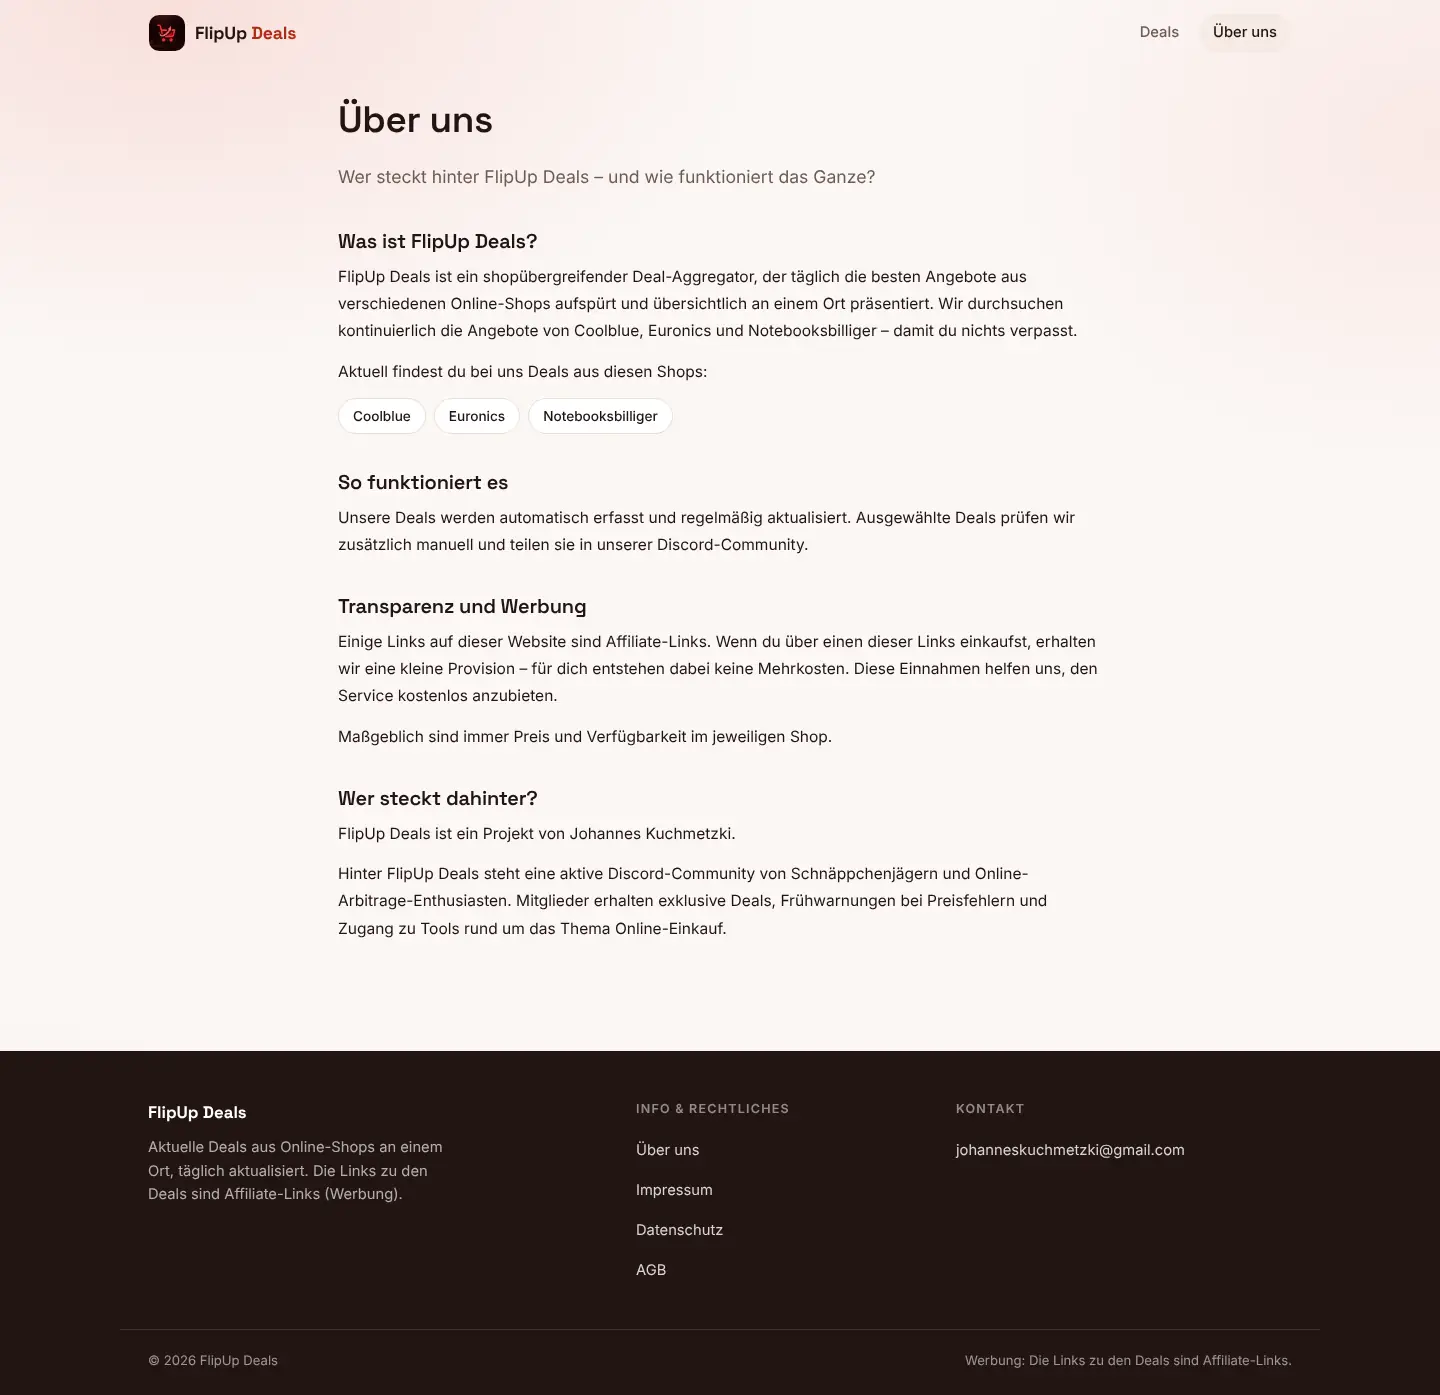
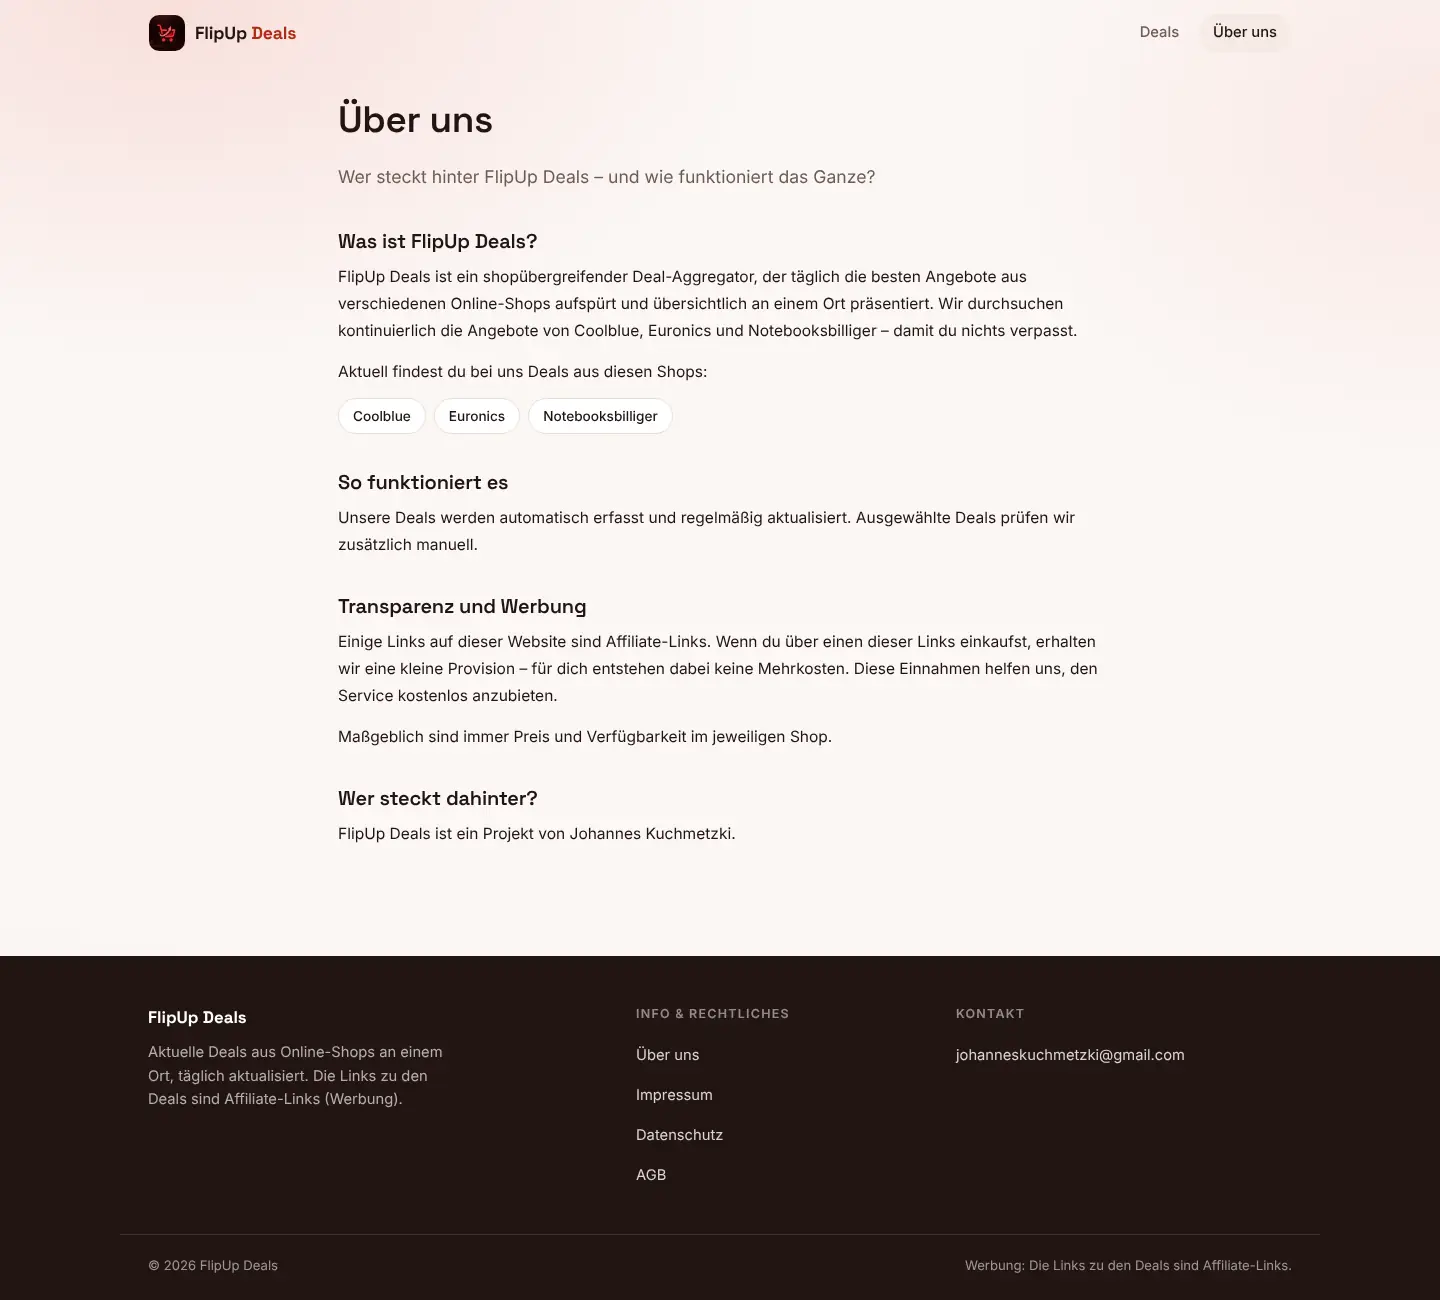
Alle Erwähnungen von Discord entfernt
"Über uns": Hinweis auf die Discord-Community im Abschnitt "So funktioniert es" und der
Community-Absatz entfallen; docs/DESIGN.md ohne Discord-Farbwert; Screenshot "Über uns" neu.

Claude-Session: https://claude.ai/code/session_019YZWEFSgEC742tvimi75md

diff --git a/about.html b/about.html
@@ -55,7 +55,7 @@
 
       <h2>So funktioniert es</h2>
       <!-- TODO (Betreiber): Aussage zur Datenquelle auf Richtigkeit prüfen -->
-      <p>Unsere Deals werden automatisch erfasst und regelmäßig aktualisiert. Ausgewählte Deals prüfen wir zusätzlich manuell und teilen sie in unserer Discord-Community.</p>
+      <p>Unsere Deals werden automatisch erfasst und regelmäßig aktualisiert. Ausgewählte Deals prüfen wir zusätzlich manuell.</p>
 
       <h2>Transparenz und Werbung</h2>
       <p>Einige Links auf dieser Website sind Affiliate-Links. Wenn du über einen dieser Links einkaufst, erhalten wir eine kleine Provision – für dich entstehen dabei keine Mehrkosten. Diese Einnahmen helfen uns, den Service kostenlos anzubieten.</p>
@@ -63,7 +63,6 @@
 
       <h2>Wer steckt dahinter?</h2>
       <p>FlipUp Deals ist ein Projekt von Johannes Kuchmetzki.</p>
-      <p>Hinter FlipUp Deals steht eine aktive Discord-Community von Schnäppchenjägern und Online-Arbitrage-Enthusiasten. Mitglieder erhalten exklusive Deals, Frühwarnungen bei Preisfehlern und Zugang zu Tools rund um das Thema Online-Einkauf.</p>
     </div>
   </div>
 </main>

diff --git a/docs/DESIGN.md b/docs/DESIGN.md
@@ -42,7 +42,6 @@ Das ist der Kern der gemeinsamen Marke: gleiche Struktur, andere Akzentfarbe.
 | `--accent-ink` | `#b02c19` | `#14503f` |
 | `--border` | `#ecdcd4` | `#dfe3da` |
 | Fehlerfarbe | – | `#b3261e` |
-| Discord-Button | `#5865f2` / Hover `#4752c4` | – |
 
 Der Primärbutton ist bei flipupde.de **rot** (`--accent`), bei johanneskuchmetzki.de **dunkel** (`--text`, Hover `--accent-ink`).
 
